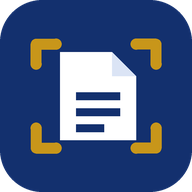
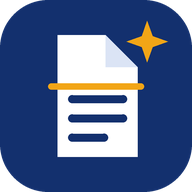
पत्रदीप: स्वतंत्र नाव, नवा लोगो, उघडताना लोगो ॲनिमेशन
Claude-Session: https://claude.ai/code/session_01GTE1UUN3eBrHEdjQCaV7Eo

diff --git a/scanner/index.html b/scanner/index.html
@@ -5,7 +5,7 @@
 <meta name="viewport" content="width=device-width, initial-scale=1, viewport-fit=cover">
 <meta name="referrer" content="no-referrer">
 <meta name="robots" content="noindex, nofollow">
-<title>स्कॅनमित्र</title>
+<title>पत्रदीप</title>
 <meta name="theme-color" content="#0b1f4b">
 <link rel="manifest" href="manifest.webmanifest">
 <link rel="icon" href="icon-192.png">
@@ -13,12 +13,12 @@
 <meta name="apple-mobile-web-app-capable" content="yes">
 <meta name="mobile-web-app-capable" content="yes">
 <meta name="apple-mobile-web-app-status-bar-style" content="black-translucent">
-<meta name="apple-mobile-web-app-title" content="स्कॅनमित्र">
+<meta name="apple-mobile-web-app-title" content="पत्रदीप">
 <link rel="preconnect" href="https://fonts.googleapis.com">
 <link rel="stylesheet" href="https://fonts.googleapis.com/css2?family=Mukta:wght@400;500;600;700;800&display=swap">
 <script src="config.js"></script>
 <style>
-/* स्कॅनमित्र: फोनमध्येच स्कॅन, कडा ओळखणे, फिल्टर, PDF / Word / Excel. OCR, भाषांतर व AI तुमच्या Apps Script सर्व्हरवर. */
+/* पत्रदीप: फोनमध्येच स्कॅन, कडा ओळखणे, फिल्टर, PDF / Word / Excel. OCR, भाषांतर व AI तुमच्या Apps Script सर्व्हरवर. */
 :root{
   --bg:#f3f5f9;--card:#fff;--ink:#0f172a;--ink2:#334155;--muted:#64748b;--line:#e2e8f0;
   --navy:#0b1f4b;--navy2:#13306e;--pri:#1d4ed8;--pri-l:#eaf0ff;--gold:#c8961a;--gold-l:#fdf6e3;
@@ -205,9 +205,33 @@ input.f:focus,select.f:focus{outline:2px solid var(--pri);border-color:transpare
 .busy b{display:block;font-size:15.5px}
 .busy small{color:var(--muted)}
 @media (min-width:700px){.docs{grid-template-columns:repeat(3,1fr)}.pages{grid-template-columns:repeat(4,1fr)}}
+/* उघडताना लोगो ॲनिमेशन */
+#splash{position:fixed;inset:0;z-index:200;background:radial-gradient(circle at 50% 38%,#1b3f8f 0,#0b1f4b 55%,#071536 100%);display:flex;flex-direction:column;align-items:center;justify-content:center;color:#fff;transition:opacity .5s ease,visibility .5s}
+#splash.off{opacity:0;visibility:hidden}
+#splash svg{width:150px;height:150px;overflow:visible;filter:drop-shadow(0 10px 30px rgba(0,0,0,.45))}
+#splash .pg{fill:rgba(255,255,255,0);stroke:#f2a516;stroke-width:4;stroke-linejoin:round;stroke-dasharray:330;stroke-dashoffset:330;animation:draw 1s ease forwards,fillp .5s ease .9s forwards}
+#splash .ln{stroke:#13306e;stroke-width:5;stroke-linecap:round;stroke-dasharray:40;stroke-dashoffset:40;animation:draw .5s ease 1.3s forwards}
+#splash .ln2{animation-delay:1.45s}#splash .ln3{animation-delay:1.6s}
+#splash .fold{fill:#dbe4f5;opacity:0;animation:show .3s ease 1.1s forwards}
+#splash .beam{fill:#f2a516;opacity:0;animation:sweep 1.1s ease 1.2s;filter:drop-shadow(0 0 8px #ffd966)}
+#splash .st{fill:#f2a516;transform-origin:92px 26px;transform:scale(0) rotate(-90deg);animation:pop .55s cubic-bezier(.3,1.6,.5,1) 2.1s forwards}
+#splash h1{font-size:40px;margin:22px 0 4px;letter-spacing:1px;opacity:0;transform:translateY(10px);animation:up .6s ease 1.9s forwards}
+#splash p{margin:0;font-size:14px;opacity:0;letter-spacing:.5px;animation:up2 .6s ease 2.2s forwards}
+@keyframes draw{to{stroke-dashoffset:0}}
+@keyframes fillp{to{fill:rgba(255,255,255,.97)}}
+@keyframes show{to{opacity:1}}
+@keyframes pop{to{transform:scale(1) rotate(0)}}
+@keyframes up{to{opacity:1;transform:none}}
+@keyframes up2{to{opacity:.8}}
+@keyframes sweep{0%{opacity:0;transform:translateY(-30px)}15%{opacity:1}85%{opacity:1}100%{opacity:0;transform:translateY(54px)}}
+@media(prefers-reduced-motion:reduce){#splash *{animation-duration:.01s!important;animation-delay:0s!important}}
 </style>
 </head>
 <body>
+<div id="splash" aria-hidden="true">
+ <svg viewBox="0 0 120 120"><path class="pg" d="M36 22h30l20 20v56H36z"/><path class="fold" d="M66 22v20h20z"/><path class="ln" d="M45 62h32"/><path class="ln ln2" d="M45 74h32"/><path class="ln ln3" d="M45 86h20"/><rect class="beam" x="30" y="26" width="60" height="4" rx="2"/><path class="st" d="M92 14l3.2 9.3 9.3 3.2-9.3 3.2L92 39l-3.2-9.3-9.3-3.2 9.3-3.2z"/></svg>
+ <h1>पत्रदीप</h1><p>कागदावर प्रकाश, डिजिटल रूप</p>
+</div>
 <svg width="0" height="0" style="position:absolute" aria-hidden="true">
  <defs>
   <symbol id="i-scan" viewBox="0 0 24 24"><path d="M3 7V5a2 2 0 0 1 2-2h2M17 3h2a2 2 0 0 1 2 2v2M21 17v2a2 2 0 0 1-2 2h-2M7 21H5a2 2 0 0 1-2-2v-2"/><path d="M7 12h10"/></symbol>
@@ -250,8 +274,8 @@ input.f:focus,select.f:focus{outline:2px solid var(--pri);border-color:transpare
 <!-- मुख्य पान -->
 <section class="view on" id="v-home">
  <header class="top">
-  <svg class="logo" viewBox="0 0 48 48" aria-hidden="true"><rect width="48" height="48" rx="13" fill="#13306e"/><path d="M15 13h13l6 6v16H15z" fill="#fff"/><path d="M28 13v6h6" fill="#dbe4f5"/><path d="M19 24h11M19 28h11M19 32h7" stroke="#13306e" stroke-width="2" stroke-linecap="round"/><path d="M9 16v-5h5M39 16v-5h-5M9 32v5h5M39 32v5h-5" stroke="#c8961a" stroke-width="2.6" fill="none" stroke-linecap="round" stroke-linejoin="round"/></svg>
-  <div class="t"><b>स्कॅनमित्र</b><small>स्कॅन • PDF • Word • Excel • भाषांतर</small></div>
+  <svg class="logo" viewBox="0 0 120 120" aria-hidden="true"><rect width="120" height="120" rx="30" fill="#13306e"/><path d="M36 22h30l20 20v56H36z" fill="#fff"/><path d="M66 22v20h20" fill="#dbe4f5"/><path d="M45 62h32M45 74h32M45 86h20" stroke="#13306e" stroke-width="5" stroke-linecap="round"/><rect x="30" y="52" width="60" height="4" rx="2" fill="#f2a516"/><path d="M92 14l3.2 9.3 9.3 3.2-9.3 3.2L92 39l-3.2-9.3-9.3-3.2 9.3-3.2z" fill="#f2a516"/></svg>
+  <div class="t"><b>पत्रदीप</b><small>स्कॅन • PDF • Word • Excel • भाषांतर</small></div>
   <button class="ib" id="b-set" aria-label="सेटिंग्ज"><svg class="i"><use href="#i-set"/></svg></button>
  </header>
  <main class="wrap">
@@ -889,7 +913,7 @@ function uni2kruti(s){
     return zip([
       { name: '[Content_Types].xml', data: '<?xml version="1.0" encoding="UTF-8" standalone="yes"?><Types xmlns="http://schemas.openxmlformats.org/package/2006/content-types"><Default Extension="rels" ContentType="application/vnd.openxmlformats-package.relationships+xml"/><Default Extension="xml" ContentType="application/xml"/><Override PartName="/word/document.xml" ContentType="application/vnd.openxmlformats-officedocument.wordprocessingml.document.main+xml"/><Override PartName="/docProps/core.xml" ContentType="application/vnd.openxmlformats-package.core-properties+xml"/></Types>' },
       { name: '_rels/.rels', data: '<?xml version="1.0" encoding="UTF-8" standalone="yes"?><Relationships xmlns="http://schemas.openxmlformats.org/package/2006/relationships"><Relationship Id="rId1" Type="http://schemas.openxmlformats.org/officeDocument/2006/relationships/officeDocument" Target="word/document.xml"/><Relationship Id="rId2" Type="http://schemas.openxmlformats.org/package/2006/relationships/metadata/core-properties" Target="docProps/core.xml"/></Relationships>' },
-      { name: 'docProps/core.xml', data: '<?xml version="1.0" encoding="UTF-8" standalone="yes"?><cp:coreProperties xmlns:cp="http://schemas.openxmlformats.org/package/2006/metadata/core-properties" xmlns:dc="http://purl.org/dc/elements/1.1/"><dc:title>' + xesc(title || '') + '</dc:title><dc:creator>स्कॅनमित्र</dc:creator></cp:coreProperties>' },
+      { name: 'docProps/core.xml', data: '<?xml version="1.0" encoding="UTF-8" standalone="yes"?><cp:coreProperties xmlns:cp="http://schemas.openxmlformats.org/package/2006/metadata/core-properties" xmlns:dc="http://purl.org/dc/elements/1.1/"><dc:title>' + xesc(title || '') + '</dc:title><dc:creator>पत्रदीप</dc:creator></cp:coreProperties>' },
       { name: 'word/document.xml', data: docXml }
     ], MIME.docx);
   }
@@ -1447,7 +1471,7 @@ function uni2kruti(s){
       .then(function (b64) { return api('save', { name: safeName(CUR.name) + '.pdf', mime: MIME.pdf, b64: b64 }); })
       .then(function (r) {
         done(); CUR.drive = r.url; DB.put(CUR);
-        openDlg('<h3>Drive मध्ये जतन झाले</h3><p class="s">"स्कॅनमित्र" फोल्डरमध्ये</p><div class="row"><a class="btn gold wide" href="' + esc(r.url) + '" target="_blank" rel="noopener">' + ico('cloud') + 'Drive मध्ये उघडा</a></div>');
+        openDlg('<h3>Drive मध्ये जतन झाले</h3><p class="s">"पत्रदीप" फोल्डरमध्ये</p><div class="row"><a class="btn gold wide" href="' + esc(r.url) + '" target="_blank" rel="noopener">' + ico('cloud') + 'Drive मध्ये उघडा</a></div>');
       }).catch(fail);
   }
   function actDel() {
@@ -1664,7 +1688,7 @@ function uni2kruti(s){
       '<span class="fl">OCR भाषा</span>' + optGroup('ocr', [['mr', 'मराठी'], ['hi', 'हिंदी'], ['en', 'इंग्रजी']], LS.get('sm-ocr') || 'mr') +
       '<span class="fl">नवीन पानांचा फिल्टर</span>' + optGroup('flt', FILTERS, LS.get('sm-filter') || 'magic') +
       '<span class="fl">रूप</span>' + optGroup('th', [['', 'फोनप्रमाणे'], ['light', 'दिवस'], ['dark', 'रात्र']], LS.get('sm-theme') || '') +
-      '<div class="row"><button class="btn gold wide" id="s-ok">' + ico('check') + 'जतन</button></div><p class="hint" style="text-align:center">स्कॅनमित्र v1.0</p>', function (bx) {
+      '<div class="row"><button class="btn gold wide" id="s-ok">' + ico('check') + 'जतन</button></div><p class="hint" style="text-align:center">पत्रदीप v1.0</p>', function (bx) {
       bindOpts(bx);
       function store() {
         LS.set('sm-api', bx.querySelector('#s-u').value.trim()); LS.set('sm-key', bx.querySelector('#s-k').value.trim().toUpperCase());
@@ -1688,6 +1712,7 @@ function uni2kruti(s){
   $('b-idc').addEventListener('click', function () { openCam(null, 'id'); });
   $('b-kru').addEventListener('click', function () { showText('', 'कृतिदेव ↔ Unicode', 'रूपांतर', '<p class="meta">कृतिदेव मजकूर पेस्ट करा व "कृतिदेव→Unicode" दाबा, किंवा Unicode मराठी टाकून "Unicode→कृतिदेव".</p>', 'kruti'); });
 
+  (function () { var sp = $('splash'), end = function () { sp.classList.add('off'); setTimeout(function () { sp.remove(); }, 700); }; sp.onclick = end; setTimeout(end, 3000); })();
   renderHome();
   if ('serviceWorker' in navigator) navigator.serviceWorker.register('sw.js').catch(function () {});
 })();

diff --git a/scanner/sw.js b/scanner/sw.js
@@ -1,5 +1,5 @@
 /* फक्त ॲपचे पान cache होते (स्कॅन व PDF इंटरनेटशिवाय चालतात). सर्व्हरची उत्तरे कधीच cache होत नाहीत: ती दुसऱ्या origin वर POST आहेत. */
-var C='scanmitra-v1';
+var C='patradeep-v1';
 self.addEventListener('install',function(e){e.waitUntil(caches.open(C).then(function(c){return Promise.all(['./','./index.html','./config.js','./manifest.webmanifest','./icon-192.png','./icon-512.png','./apple-touch-icon.png'].map(function(u){return fetch(new Request(u,{cache:'reload'})).then(function(r){return r.ok?c.put(u,r):0}).catch(function(){})}))}));self.skipWaiting()});
-self.addEventListener('activate',function(e){e.waitUntil(caches.keys().then(function(k){return Promise.all(k.filter(function(x){return x!==C&&x.indexOf('scanmitra-v')===0}).map(function(x){return caches.delete(x)}))}));self.clients.claim()});
+self.addEventListener('activate',function(e){e.waitUntil(caches.keys().then(function(k){return Promise.all(k.filter(function(x){return x!==C&&x.indexOf('patradeep-v')===0}).map(function(x){return caches.delete(x)}))}));self.clients.claim()});
 self.addEventListener('fetch',function(e){if(e.request.method!=='GET')return;var u=new URL(e.request.url);if(u.origin!==location.origin)return;e.respondWith(caches.open(C).then(function(c){return c.match(e.request,{ignoreSearch:true}).then(function(hit){var net=fetch(e.request,{cache:'no-cache'}).then(function(r){if(r.ok)c.put(e.request,r.clone());return r});if(hit){e.waitUntil(net.catch(function(){}));return hit}return net.catch(function(){return c.match('./index.html')})})}))});

diff --git a/README.md b/README.md
@@ -6,4 +6,4 @@
 
 गोपनीय नोंदवही (फरार / पाहिजे आरोपी, निगराणी बदमाश, हद्दपार): https://crimesdponagpur.github.io/pending.-Public/nondvahi/ (माहिती फक्त स्वतःच्या Google Sheet मध्ये, login मागे)
 
-स्कॅनमित्र (कागद स्कॅन, PDF, Word, Excel, भाषांतर): https://crimesdponagpur.github.io/pending.-Public/scanner/ (कागद फोनमध्येच; OCR / भाषांतर स्वतःच्या Apps Script सर्व्हरवर)
+पत्रदीप (कागद स्कॅन, PDF, Word, Excel, भाषांतर): https://crimesdponagpur.github.io/pending.-Public/scanner/ (कागद फोनमध्येच; OCR / भाषांतर स्वतःच्या Apps Script सर्व्हरवर)
